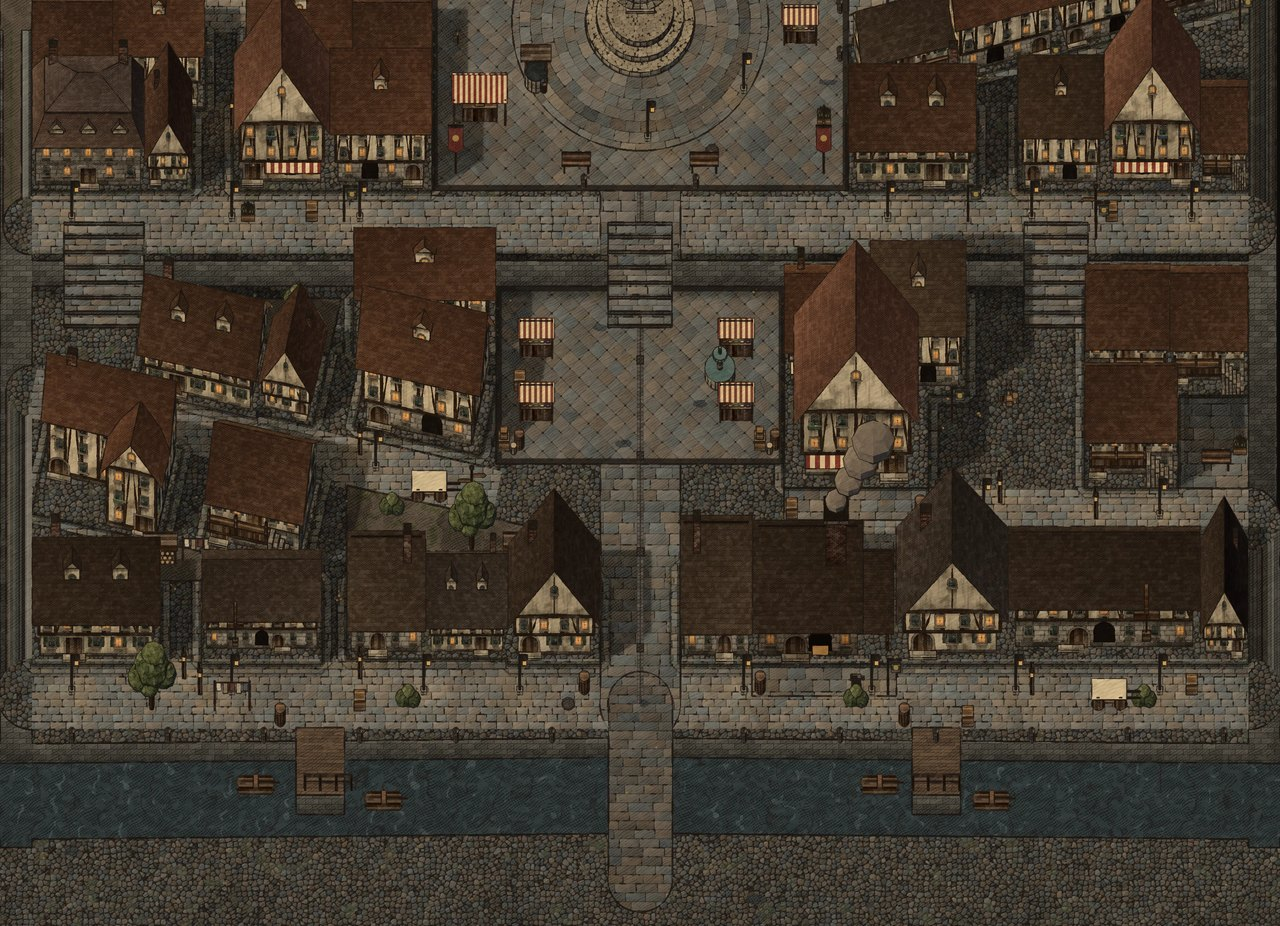
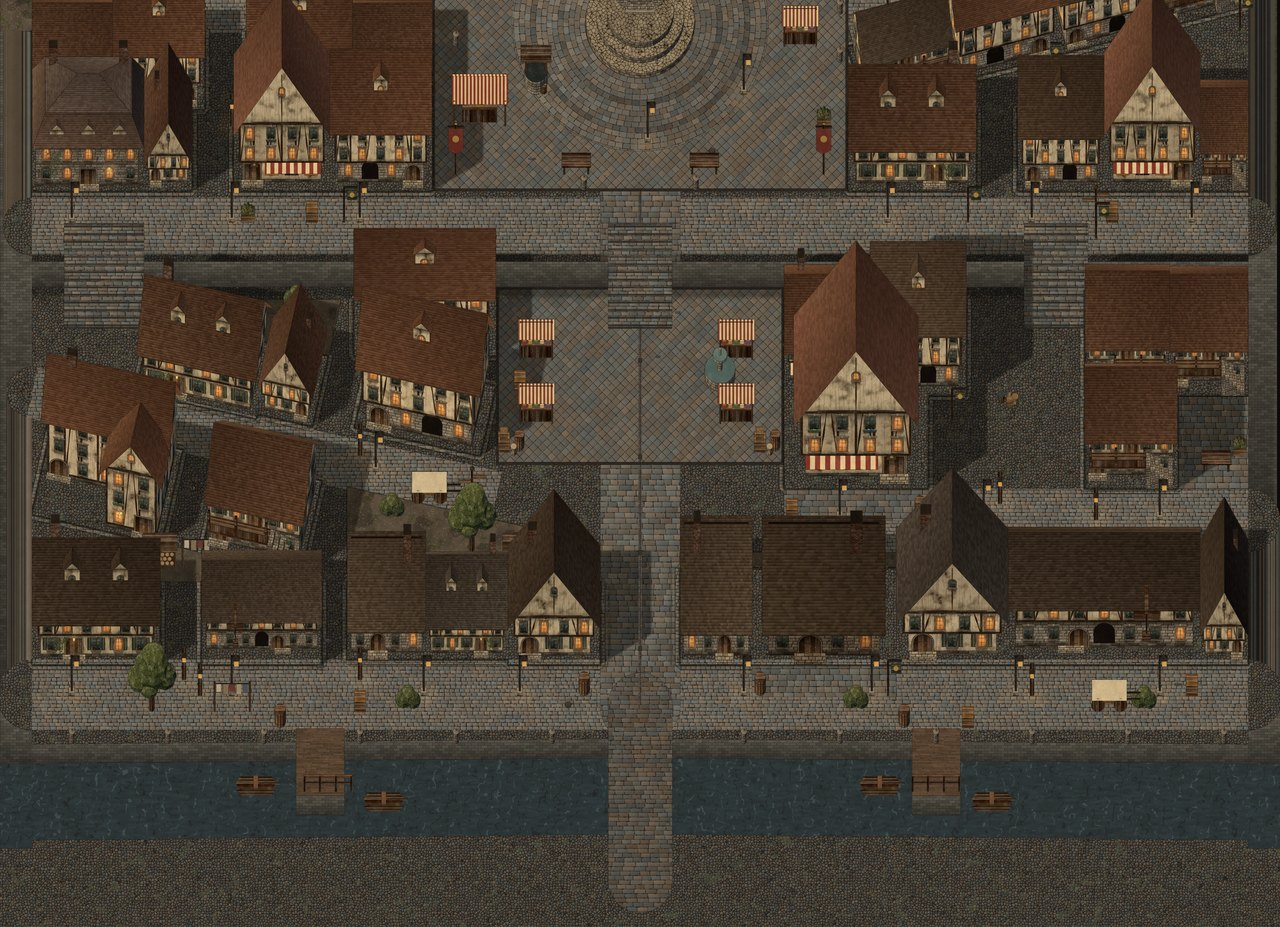
동네 전체 그림 도구: 바닥 64px · 소품 3배 굽기에 맞춤, 그림 다시 뽑기
Claude-Session: https://claude.ai/code/session_01Afqs6bRjWWnkC91uGCjZny

diff --git a/tools/town_overview.py b/tools/town_overview.py
@@ -22,11 +22,14 @@ def main():
     sc = idx.get("scale", 1.5)
     top = 400
     W = dump["w"] * 32
-    H = max(c["rect"][1] + c["rect"][3] for c in g["chunks"]) + top
+    gs = 32 / g.get("tile", 32)  # 바닥 조각은 칸당 tile px로 구웠다(CT99 이후 64) → 여기는 칸당 32
+    H = round(max(c["rect"][1] + c["rect"][3] for c in g["chunks"]) * gs) + top
     im = Image.new("RGBA", (W, H), (14, 12, 10, 255))
     for c in g["chunks"]:
         x, y, _w, _h = c["rect"]
-        im.alpha_composite(Image.open(os.path.join(ROOT, "assets/town/ground", c["file"] + ".webp")).convert("RGBA"), (x, y + top))
+        gi = Image.open(os.path.join(ROOT, "assets/town/ground", c["file"] + ".webp")).convert("RGBA")
+        gi = gi.resize((round(gi.width * gs), round(gi.height * gs)), Image.LANCZOS)
+        im.alpha_composite(gi, (round(x * gs), round(y * gs) + top))
     items = [(h["front_y"] * 32, "h", h) for h in dump["houses"] if h["id"] in idx["houses"]] + [(p["y"], "p", p) for p in dump["props"]]
     items.sort(key=lambda t: t[0])
     pages, arts = {}, {}
@@ -45,7 +48,7 @@ def main():
             art = arts[a["kind"]]
             if art is None:
                 continue
-            spr = art.resize((max(1, round(art.width / 1.5)), max(1, round(art.height / 1.5))), Image.LANCZOS)
+            spr = art.resize((max(1, round(art.width / 3.0)), max(1, round(art.height / 3.0))), Image.LANCZOS)
             im.paste(spr, (round(a["x"] - spr.width / 2), round(a["y"] - a["lift"] - spr.height) + top), spr)
     bbox = im.convert("L").point(lambda v: 255 if v > 20 else 0).getbbox()
     im = im.crop((0, max(0, bbox[1] - 10), W, H)).convert("RGB")
